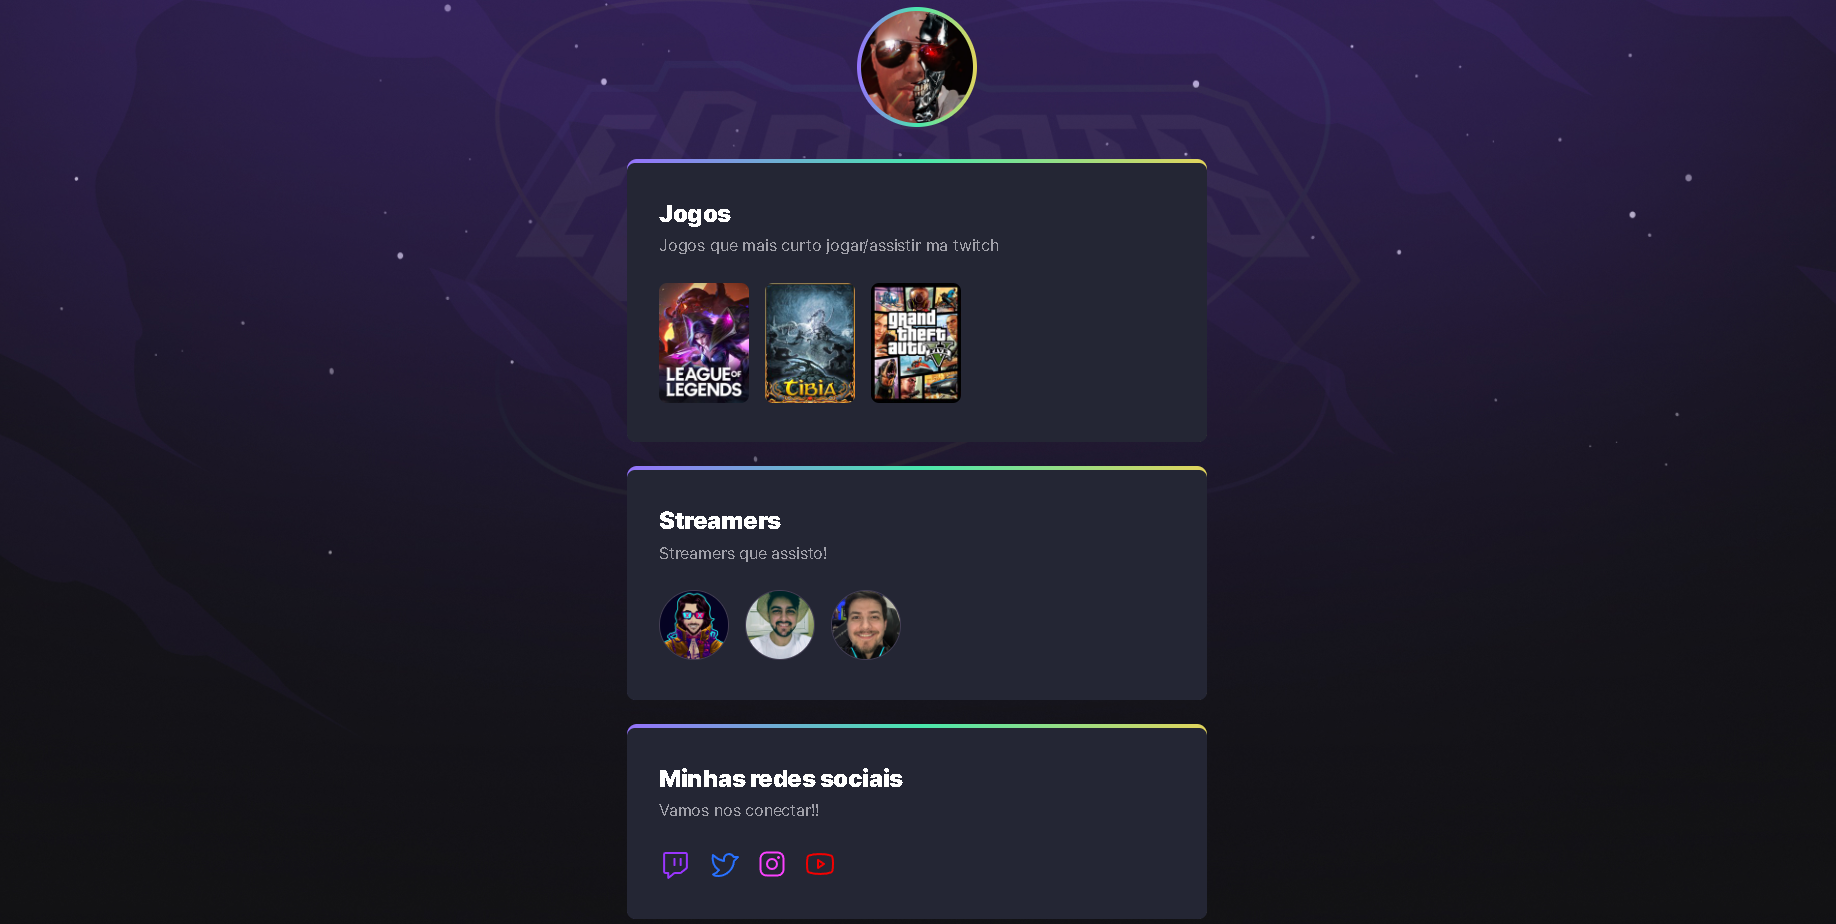
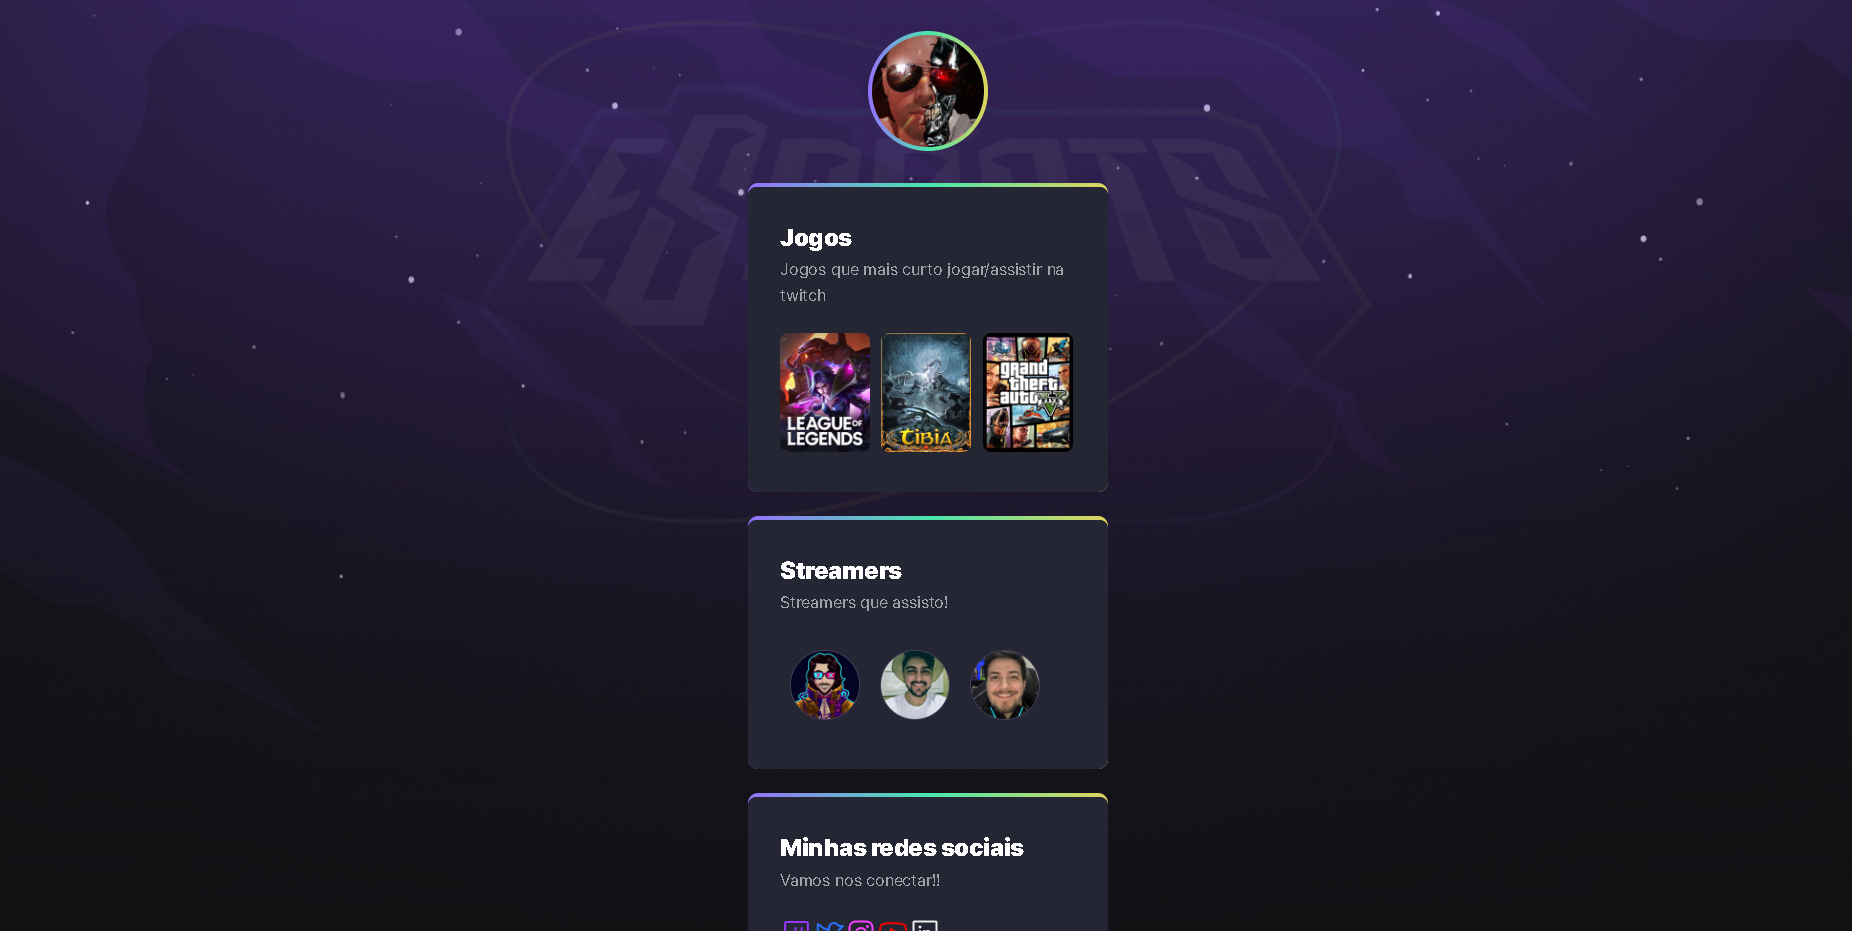
Utilizando a biblioteca Swiper

Changed region(s): [[0.3415, 0.5455, 0.683, 1.0], [0.3415, 0.0, 0.683, 0.5152]]

diff --git a/NLW/NLW-Explorer/index.html b/NLW/NLW-Explorer/index.html
@@ -11,7 +11,14 @@
         <meta name="viewport" content="width=device-width, initial-scale=1.0"><!--deixar o contéudodo html flexível de acordo com o dispositivo-->
         <title>NLW Esports-Explorer</title><!--Título de uma página-->
 
-        <link rel="stylesheet" href="./styles.css"><!--importanto o arquivo .css-->
+        <!--importanto o arquivo .css-->
+        <link rel="stylesheet" href="./styles.css">
+
+        <!-- Link Swiper's CSS -->
+        <link
+            rel="stylesheet"
+            href="https://cdn.jsdelivr.net/npm/swiper/swiper-bundle.min.css">
+
     </head>
     <body>  
         
@@ -27,31 +34,49 @@
                     <h2>Jogos</h2>
                     <p>Jogos que mais curto jogar/assistir na twitch</p>
 
-                    <ul class="games-list"><!--unordered list/ lista não ordenada--><!--class singnifica uma classe para a tag informada-->
-                        <li><!--item list/ Item da lista-->
-                            <a 
-                            target="_blank"
-                            href="https://www.twitch.tv/directory/game/League%20of%20Legends">
-                                <img src ="https://static-cdn.jtvnw.net/ttv-boxart/21779-188x250.jpg" alt="Imagem do jogo League fo legends">
-                            </a><!--href atributo para um hyperlink. Atributo target significa alvo, com o valor "_blank" ao clicar no link, abre uma nova aba-->
-                        </li>
+                    <div class="swiper mySwiper">
+                        <ul class="games-list swiper-wrapper"><!--unordered list/ lista não ordenada--><!--class singnifica uma classe para a tag informada-->
+                            <li class="swiper-slide"><!--item list/ Item da lista-->
+                                <a 
+                                target="_blank"
+                                href="https://www.twitch.tv/directory/game/League%20of%20Legends">
+                                    <img src ="https://static-cdn.jtvnw.net/ttv-boxart/21779-188x250.jpg" alt="Imagem do jogo League fo legends">
+                                </a><!--href atributo para um hyperlink. Atributo target significa alvo, com o valor "_blank" ao clicar no link, abre uma nova aba-->
+                            </li>
 
-                        <li>
-                            <a 
-                            target="_blank"
-                            href="https://www.twitch.tv/directory/game/Tibia">
-                                <img src ="https://static-cdn.jtvnw.net/ttv-boxart/19619_IGDB-188x250.jpg" alt="Imagem do jogo Tibia">
-                            </a>
-                        </li>
+                            <li class="swiper-slide">
+                                <a 
+                                target="_blank"
+                                href="https://www.twitch.tv/directory/game/Tibia">
+                                    <img src ="https://static-cdn.jtvnw.net/ttv-boxart/19619_IGDB-188x250.jpg" alt="Imagem do jogo Tibia">
+                                </a>
+                            </li>
 
-                        <li>
-                            <a 
-                            target="_blank"
-                            href="https://www.twitch.tv/directory/game/Grand%20Theft%20Auto%20V">
-                                <img src ="https://static-cdn.jtvnw.net/ttv-boxart/32982_IGDB-188x250.jpg" alt="Imagem do jogo GTA5">
-                            </a>
-                        </li>
-                    </ul>
+                            <li class="swiper-slide">
+                                <a 
+                                target="_blank"
+                                href="https://www.twitch.tv/directory/game/Grand%20Theft%20Auto%20V">
+                                    <img src ="https://static-cdn.jtvnw.net/ttv-boxart/32982_IGDB-188x250.jpg" alt="Imagem do jogo GTA5">
+                                </a>
+                            </li>
+
+                            <li class="swiper-slide">
+                                <a
+                                 target="_blank"   
+                                 href="https://www.twitch.tv/directory/game/VALORANT">
+                                    <img src="https://static-cdn.jtvnw.net/ttv-boxart/516575-188x250.jpg" alt="Imagem do jogo Valorant">
+                                </a>
+                            </li>    
+
+                            <li class="swiper-slide">
+                                <a
+                                 target="_blank"   
+                                 href="https://www.twitch.tv/directory/game/Omega%20Strikers">
+                                    <img src="https://static-cdn.jtvnw.net/ttv-boxart/1600495710_IGDB-188x250.jpg" alt="Imagem do jogo Omega Strikers">
+                                </a>
+                            </li>
+                        </ul>
+                    </div>    
                 </div>
             </section>
 
@@ -157,6 +182,18 @@
             </section>
 
         </main>
+        
+            <!-- Swiper JS -->
+            <script src="https://cdn.jsdelivr.net/npm/swiper/swiper-bundle.min.js"></script>
+            <!-- Initialize Swiper -->
+            <script>
+                /*var swiper */
+                new Swiper(".mySwiper", {
+                    slidesPerView: 3,
+                    spaceBetween: 8,
+                    loop: true
+                });
+            </script>
 
     </body>
 </html>

diff --git a/NLW/NLW-Explorer/styles.css b/NLW/NLW-Explorer/styles.css
@@ -61,7 +61,7 @@ header img{
 
 
 main {
-    max-width: 580px;/*largura máxima de 580 píxels*/
+    max-width: 360px;/*largura máxima de 580 píxels*/
     width: 90%;/*Largura de 90% da tela*/
 
     margin: 32px auto;/*Margens, quando contém dois valores ele verifica primeiro em cima de depois em baixo. Neste caso 32px em cima e automático em baixo*/
@@ -76,6 +76,7 @@ main {
     flex-direction: column;
     gap: 24px;
     */
+
 }
 
 /*seção*/
@@ -138,7 +139,18 @@ section ul li:hover {
     width: 70px;/*largura da borda*/
 
     border: 1px solid #443e54;/*tamanho e cor da borda*/
+    
 }
+
+/*espaçamento entre as imagens dos streamers*/
+.streamers-list li{
+    margin: 10px;
+}
+
+/*espaçamento entre o ul*/
+/*.streamers-list{
+    margin: 10px;
+}*/
 
 
 /*animation*/
@@ -196,4 +208,15 @@ main section:nth-child(3){
         transform: translateX(0);/*terminar animação em 0px do eixo X*/
     }
     
+}
+
+
+/*swiper*/
+section {
+    overflow: hidden;
+}
+
+section ul {
+    flex-wrap: nowrap;
+    gap: 0;
 }

diff --git a/README.md b/README.md
@@ -15,13 +15,15 @@ ________________________________________________________________________________
 * HTML
 * CSS
 * Git e Github
+* Swiper 
+    * [Link da biblioteca](https://swiperjs.com/demos)
 
 
 ### Projeto construído no evento Next Level Week da RocketSeat
 
 ![preview](./NLW/NLW-Explorer/preview.png)
 
-[ Clique aqui para acessar](https://thiagoavelino1990.github.io/Estudos-Front/NLW/NLW-Explorer/)
+[ Clique aqui para acessar o projeto](https://thiagoavelino1990.github.io/Estudos-Front/NLW/NLW-Explorer/)
 
 _____________________________________________________________________________________________________
 
